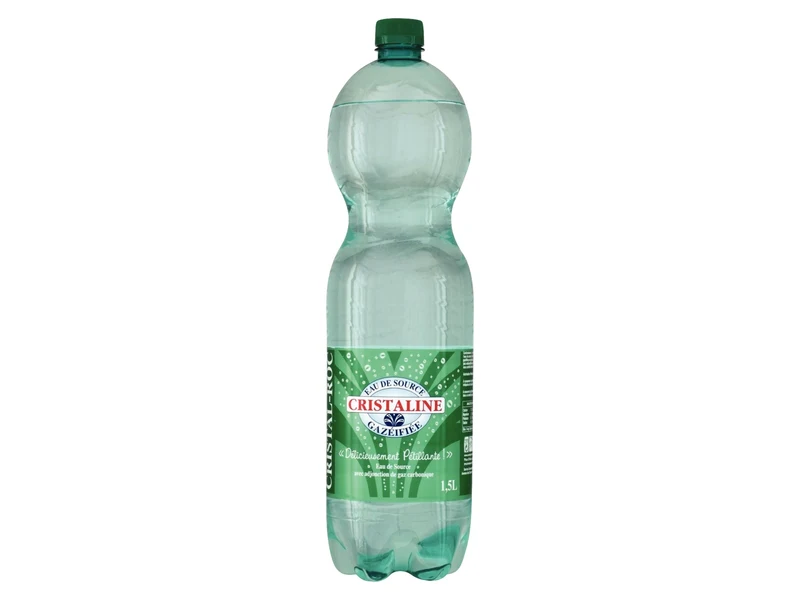
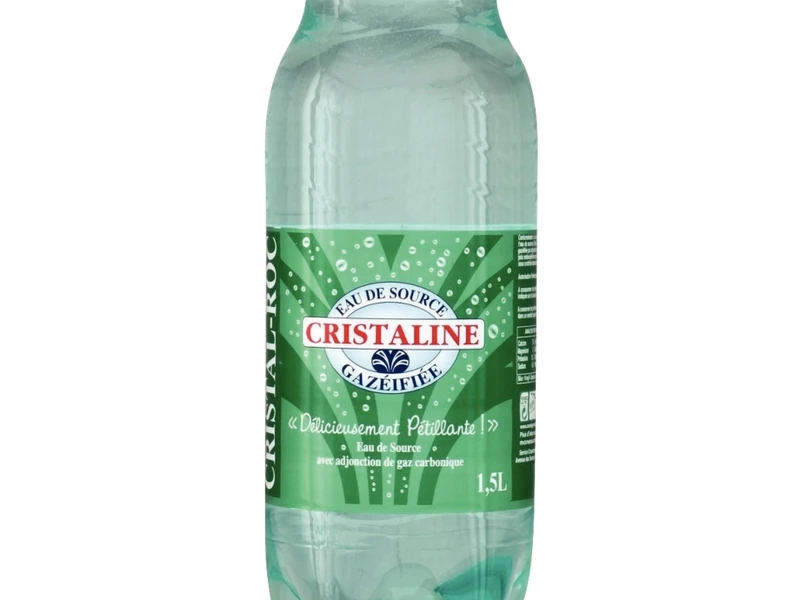
Cave : photo Cristaline plate de Jean-Luc, étiquettes Cristaline bien visibles (#205)
Claude-Session: https://claude.ai/code/session_01KEeSnQvMZeYgRY6GHudmYr

Changed region(s): [[0.3125, 0.0, 0.6875, 1.0]]

diff --git a/server/cave.js b/server/cave.js
@@ -231,7 +231,7 @@ async function vinsCave(store) {
    par l'eau pétillante 1,5 L que Magnolia propose déjà (ancien site, page « Nos boissons sans alcool »), au même prix. */
 const EAUX_RETIREES = ['eau-evian-50-cl', 'eau-vittel-1-l', 'perrier-fines-bulles-1-l'];
 const EAUX_NOUVELLES = [
-  { slug: 'eau-plate-cristaline-1-5-l', titre: 'Eau plate Cristaline (1,5 L)', ordre: 10, photo: [px(13055851), 'Bouteilles d’eau plate'],
+  { slug: 'eau-plate-cristaline-1-5-l', titre: 'Eau plate Cristaline (1,5 L)', ordre: 10, photo: ['/site/c/cave/cristaline-plate-1-5-l.webp', 'Bouteille d’eau plate Cristaline 1,5 L'],
     extrait: 'Eau de source plate Cristaline, bouteille de 1,5 litre, vendue à l’unité.', description: ['Eau de source plate Cristaline, bouteille de 1,5 litre, vendue à l’unité.', FRAIS] },
   { slug: 'eau-petillante-1-5-l', titre: 'Eau gazeuse Cristaline (1,5 L)', ordre: 10.5, prix: 220, photo: ['/site/c/cave/cristaline-gazeifiee-1-5-l.webp', 'Bouteille de Cristaline gazéifiée 1,5 L'],
     extrait: 'Eau de source gazéifiée Cristaline, bouteille de 1,5 litre, vendue à l’unité.', description: ['Eau de source gazéifiée Cristaline, bouteille de 1,5 litre, vendue à l’unité.', FRAIS] },
@@ -272,9 +272,19 @@ async function cristalineGaz(store) {
   await store.set('_migr/caveCristalineGaz1', { at: new Date().toISOString() });
 }
 
+/* Photo de la Cristaline plate fournie par Jean-Luc (2026-11-25), cadrée sur l'étiquette ; la gazeuse recadrée de même */
+async function cristalinePlate(store) {
+  if (await store.get('_migr/caveCristalinePlate1')) return;
+  for (const x of EAUX_NOUVELLES) {
+    const d = await store.get('produits/' + x.slug);
+    if (d) await store.set('produits/' + x.slug, { ...d, photos: [{ src: x.photo[0] + '?v=2', alt: x.photo[1] }] });
+  }
+  await store.set('_migr/caveCristalinePlate1', { at: new Date().toISOString() });
+}
+
 async function initCave(store) {
   await prixCave(store);
-  if (await store.get('_migr/caveCercle')) { await openBarCave(store); await sodasCave(store); await vinsCave(store); await eauxCave(store); await cocaPhotos(store); await cristalineGaz(store); return ajoutsCave(store); }
+  if (await store.get('_migr/caveCercle')) { await openBarCave(store); await sodasCave(store); await vinsCave(store); await eauxCave(store); await cocaPhotos(store); await cristalineGaz(store); await cristalinePlate(store); return ajoutsCave(store); }
   const now = new Date().toISOString();
   let n = 0;
   for (const d of await store.list('produits')) {
@@ -317,6 +327,7 @@ async function initCave(store) {
   await eauxCave(store);
   await cocaPhotos(store);
   await cristalineGaz(store);
+  await cristalinePlate(store);
   return n + await ajoutsCave(store);
 }
 

diff --git a/test/cave.test.js b/test/cave.test.js
@@ -51,5 +51,6 @@ test('initCave : anciens vins masqués, nos open bars gardés, nouvelles fiches 
   assert.equal(docs.get('produits/eau-plate-cristaline-1-5-l').prixCents, 250);
   assert.equal(docs.get('produits/coca-cola-1-5-l').photos[0].src, '/site/c/cave/coca-cola-1-5-l.webp');
   assert.equal(docs.get('produits/eau-petillante-1-5-l').prixCents, 220);
+  assert.match(docs.get('produits/eau-plate-cristaline-1-5-l').photos[0].src, /cristaline-plate-1-5-l\.webp/);
   assert.equal(await initCave(store), 0);
 });

diff --git a/data/credits-photos-univers.md b/data/credits-photos-univers.md
@@ -311,3 +311,4 @@ Photos regardées une à une (vraies photos, sans texte ni logo), licence Pexels
 - Eau plate Cristaline 1,5 L : Pexels 13055851 ; eau pétillante 1,5 L : Pexels 31699476 (2026-11-25).
 - Coca-Cola 1,5 L et Coca-Cola Zéro 1,5 L : photos fournies par Jean-Luc (2026-11-25), remplacent les photos Pexels.
 - Cristaline gazéifiée 1,5 L : photo fournie par Jean-Luc (2026-11-25), remplace Pexels 31699476.
+- Cristaline plate 1,5 L : photo fournie par Jean-Luc (2026-11-25), remplace Pexels 13055851 ; photos Cristaline cadrées sur l'étiquette.
